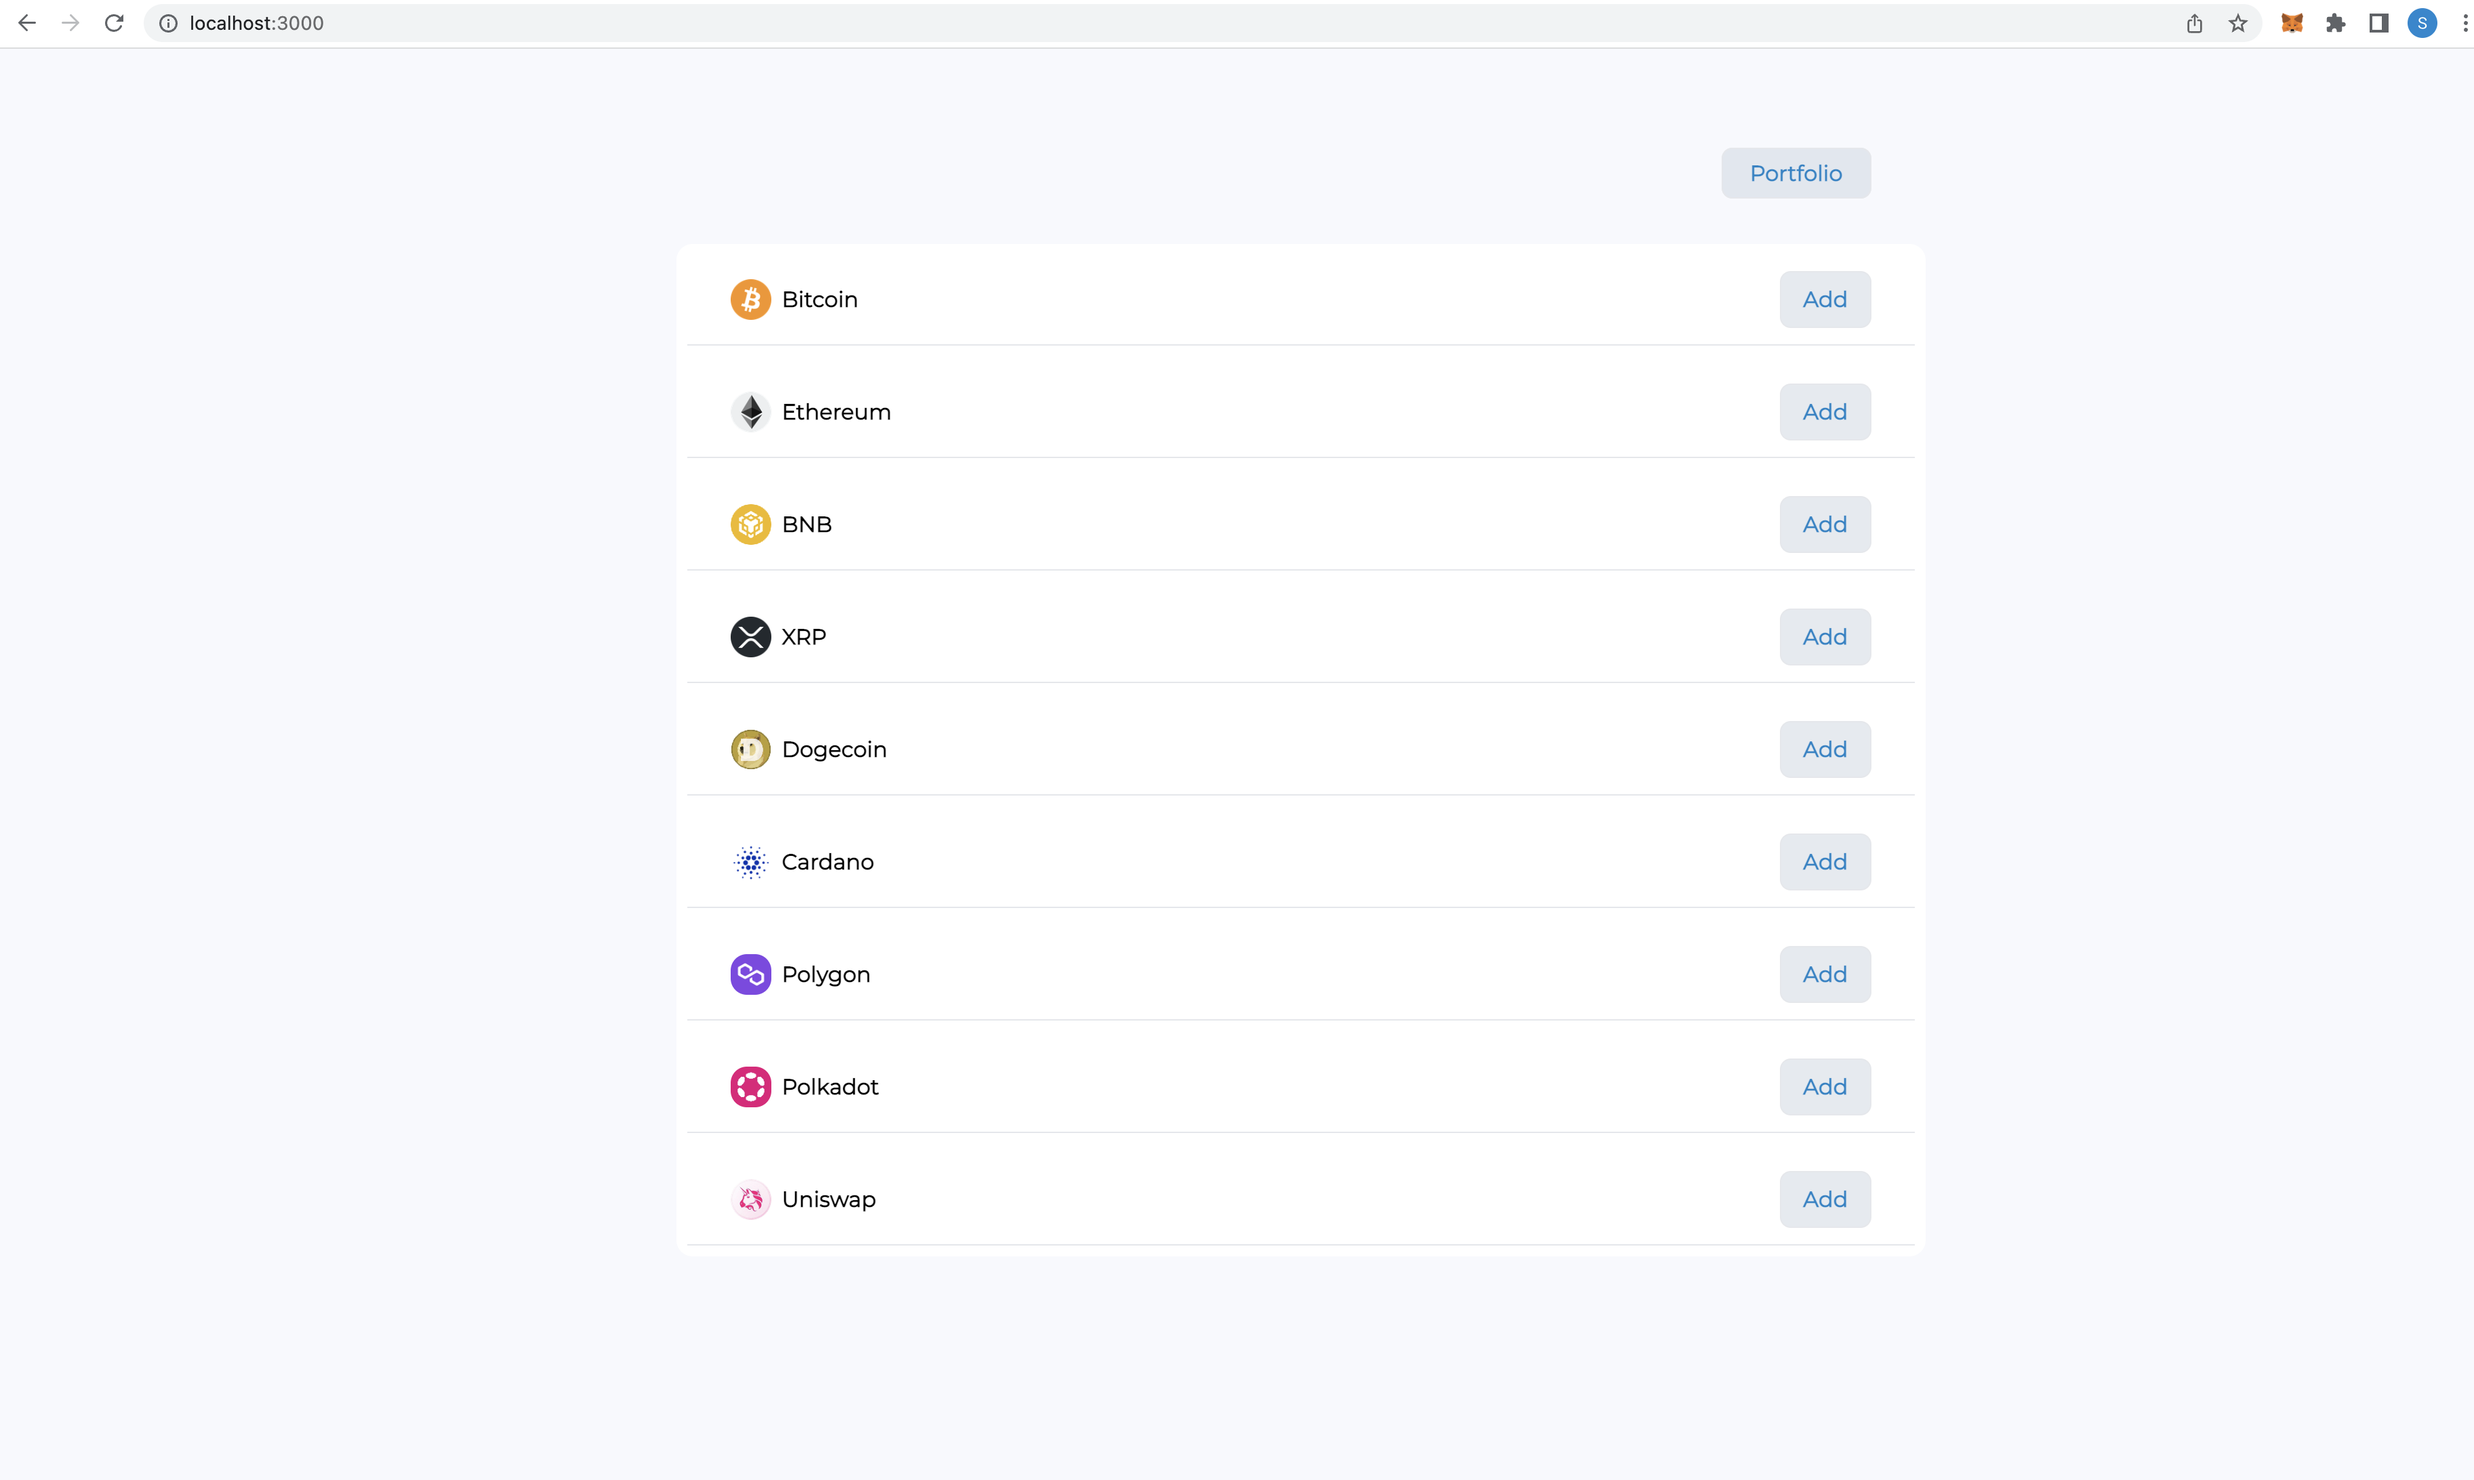
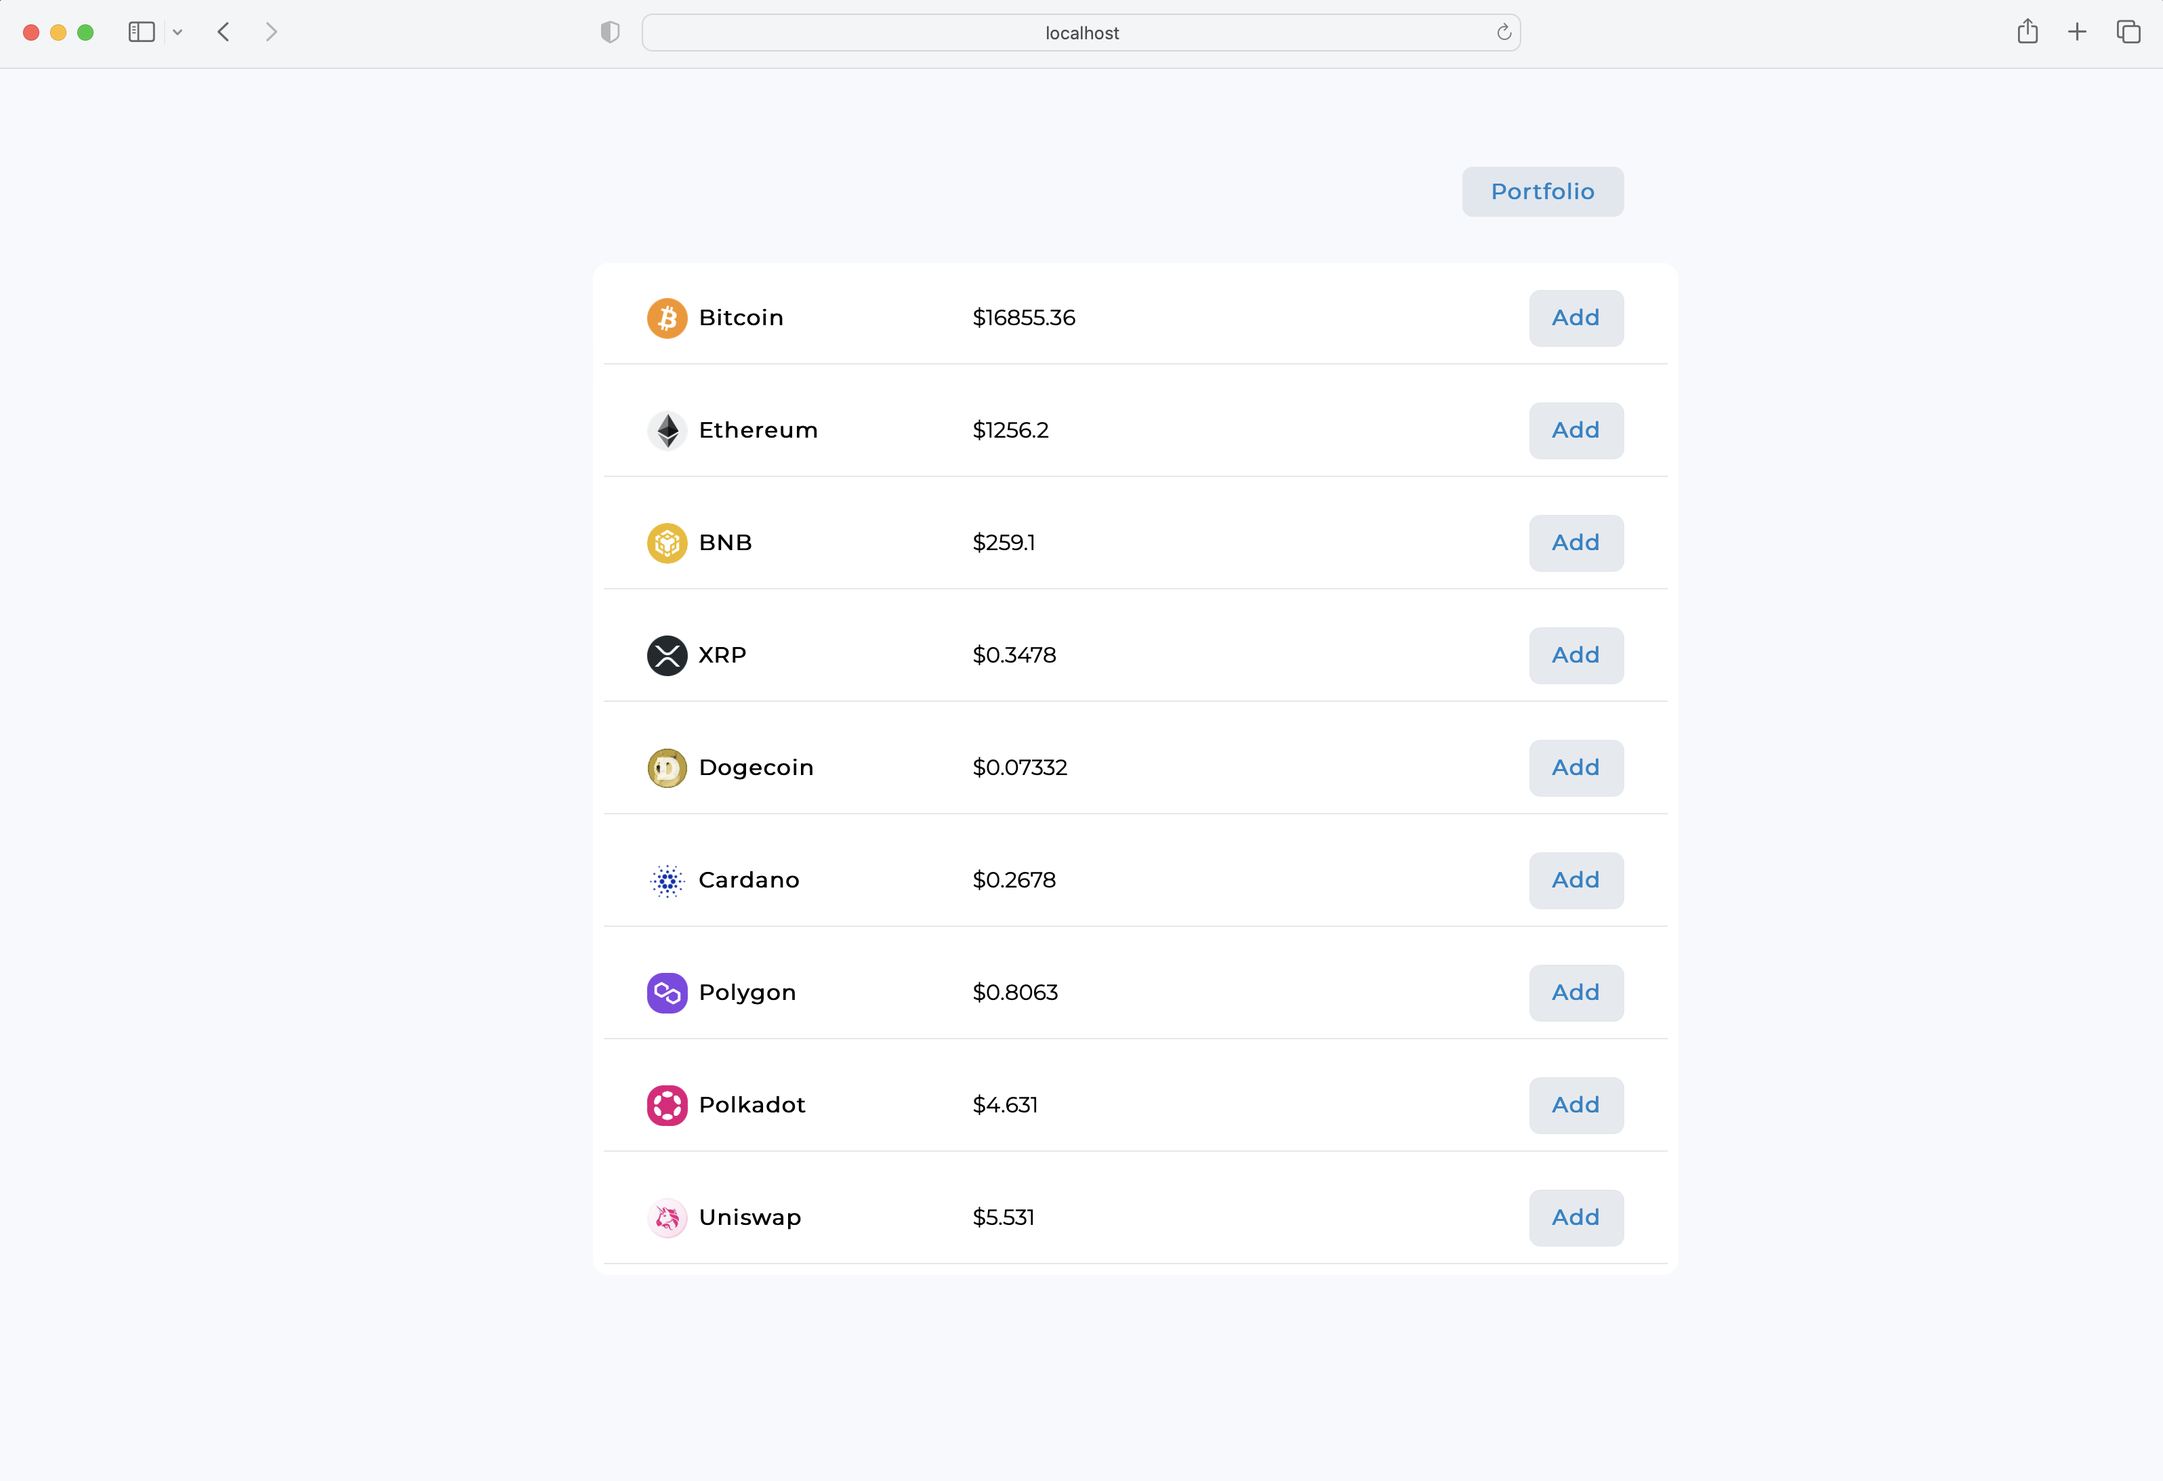
add func: calcualate the price of all portfolio

diff --git a/interface/src/components/Dashboard.jsx b/interface/src/components/Dashboard.jsx
@@ -6,7 +6,7 @@ export default function Dashboard() {
     const userID = 1
     const [portfolio, setPortfolio] = useState([]) 
     const [candlesticks, setCandlesticks] = useState([])
-    const [symbol, setSymbol] = useState("btcusdt")
+    // const [symbol, setSymbol] = useState("btcusdt")
 
 
     const fetchPortfolio = async () => {
@@ -19,9 +19,19 @@ export default function Dashboard() {
         }
     }
 
-    const fetchCandlesticks = async () => {
+    // const fetchCandlesticks = async () => {
+    //     try {
+    //         const resp = await fetch(`http://localhost:8000/klines/${symbol}/`)
+    //         const res = await resp.json()
+    //         setCandlesticks(res)
+    //     } catch(e) {
+    //         console.log(e)
+    //     }
+    // }
+
+    const fetchPortfolioPrices = async () => {
         try {
-            const resp = await fetch(`http://localhost:8000/klines/${symbol}/`)
+            const resp = await fetch(`http://localhost:8000/users/${userID}/portfolio/test/`)
             const res = await resp.json()
             setCandlesticks(res)
         } catch(e) {
@@ -43,7 +53,6 @@ export default function Dashboard() {
         }
 
         let amount = parseFloat(value)
-        console.log(value, amount)
         if (isNaN(amount)) {
             return
         }
@@ -91,8 +100,9 @@ export default function Dashboard() {
     }, [])
 
     useEffect(() => {
-        fetchCandlesticks()
-    }, [symbol])
+        // fetchCandlesticks()
+        fetchPortfolioPrices()
+    }, [portfolio])
                
     return (
        <div id="dashboard" className="xl:w-1/2 xl:absolute xl:left-1/4 md:m-10 m-5">
@@ -101,7 +111,7 @@ export default function Dashboard() {
             </div>
 
             <div className="p-5 bg-white rounded-lg">
-                <Chart candlesticks={candlesticks} title={symbol.toUpperCase()}/>
+                <Chart candlesticks={candlesticks} title="Portfolio"/>
             </div>
 
 
@@ -110,18 +120,22 @@ export default function Dashboard() {
                 <div className="bg-white rounded-lg">
                     {portfolio.length != 0 && portfolio.map(asset => {
                         return (
-                            <div className={"flex justify-between items-center " + (symbol === asset.currency.symbol ? "bg-slate-200/50" : "")} onClick={() => setSymbol(asset.currency.symbol)}>
+                            // onClick={() => setSymbol(asset.currency.symbol)}
+                            // + (symbol === asset.currency.symbol ? "bg-slate-200/50" : "")
+                            <div className={"grid grid-cols-3 flex items-center "} >
                                 <div className="mx-5 p-5 flex items-center">
                                     <img src={asset.currency.image_url} alt="logo" width="40" className="rounded-xl"/>
                                     <div className="mx-5 font-bold">{asset.currency.name}</div>
                                 </div>
                                 <input type="text" className="rounded-lg p-2 bg-transparent outline-0" value={asset.amount} onChange={({target}) => handleChangeAmount(asset.id, target.value)}/>
-                                <button 
-                                    className="mx-4 px-5 p-2 bg-red-500/50 rounded-xl font-bold hover:bg-red-500"
-                                    onClick={() => handleDelete(asset.id)}
-                                    >
-                                        Delete
-                                </button>
+                                <div className="flex justify-end">
+                                    <button 
+                                        className="mx-4 px-5 p-2 bg-red-500/50 rounded-xl font-bold hover:bg-red-500"
+                                        onClick={() => handleDelete(asset.id)}
+                                        >
+                                            Delete
+                                    </button>
+                                </div>
                             </div>
                         )
                     })}

diff --git a/interface/src/components/CryptoCurrencies.jsx b/interface/src/components/CryptoCurrencies.jsx
@@ -46,15 +46,21 @@ export default function CryptoCurrencies() {
                 {currencies.map(currency => {
                     return (
                         <div className="p-2">
-                            <div className="mx-5 p-3 flex justify-between">
+                            <div className="mx-5 p-3 grid grid-cols-3 flex items-center">
+
                                 <div className="flex items-center">
                                     <img src={currency.image_url} alt="logo" width="30" className="rounded-xl"/>
                                     <div className="mx-2 font-bold">{currency.name}</div>
                                 </div>
-                                <button 
-                                    className="px-4 py-2 bg-slate-300/50 rounded-lg text-sky-600 font-semibold border hover:bg-sky-200/50 hover:border-sky-300"
-                                    onClick={() => handleAddAsset(currency.id)}
-                                    >Add</button>
+                                <div className="">${currency.price}</div>
+
+                                <div className="flex justify-end">
+                                    <button 
+                                        className="px-4 py-2 bg-slate-300/50 rounded-lg text-sky-600 font-semibold border hover:bg-sky-200/50 hover:border-sky-300"
+                                        onClick={() => handleAddAsset(currency.id)}
+                                        >Add
+                                    </button>
+                                </div>
                             </div>
                             <hr />
                         </div>

diff --git a/interface/public/index.html b/interface/public/index.html
@@ -2,7 +2,7 @@
 <html lang="en">
   <head>
     <meta charset="utf-8" />
-    <link rel="icon" href=./favicon.ico" />
+    <link rel="icon" href="./favicon.ico" />
     <meta name="viewport" content="width=device-width, initial-scale=1" />
     <link rel="apple-touch-icon" href="./logo192.png" />
     <link rel="manifest" href="./manifest.json" />

diff --git a/crypto_tracker/crud.py b/crypto_tracker/crud.py
@@ -1,10 +1,17 @@
 from sqlalchemy.orm import Session
+from sqlalchemy.sql import func
 
 from . import models, schemas
 
 
 def get_curencies(db: Session, skip: int = 0, limit: int = 100):
-    return db.query(models.Currency).offset(skip).limit(limit).all()
+    currencies = db.query(models.Currency).offset(skip).limit(limit).all()
+    # get price for each currency
+    for ind in range(len(currencies)):
+        candlestick = db.query(models.Candlestick).filter(models.Candlestick.symbol == currencies[ind].symbol).order_by(models.Candlestick.date.desc()).limit(1).first()
+        currencies[ind].price = candlestick.close
+
+    return currencies
 
 
 def get_candlesticks(db: Session, symbol: str):
@@ -33,6 +40,7 @@ def get_portfolio_by_user_id(db: Session, user_id: int):
 
 
 def create_portfolio_asset(db: Session, asset: schemas.PortfolioCreate, user_id: int):
+    asset.title = asset.title.lower()
     # get portfolio that has the same title and currency
     db_asset = db.query(models.Portfolio).filter(
         models.Portfolio.user_id == user_id, 
@@ -66,5 +74,23 @@ def delete_portfolio_asset(db: Session, portfolio_id: int):
     status = db.query(models.Portfolio).filter(models.Portfolio.id == portfolio_id).delete()
     db.commit()
     return status
+
+
+def get_portfolio_prices(db: Session, user_id: int, title: str):
+    title = title.lower()
+    assets = db.query(models.Portfolio).filter(models.Portfolio.user_id == user_id, models.Portfolio.title == title).all()
+
+    prices = {}
+    for asset in assets:
+        candlesticks = db.query(models.Candlestick).filter(models.Candlestick.symbol == asset.currency.symbol).all()
+        for candle in candlesticks:
+            if candle.date not in prices:
+                prices[candle.date] = 0
+
+            prices[candle.date] += asset.amount*candle.close
+
+    return [{"date": k, "close": v} for k, v in prices.items()]
+
+
 
     

diff --git a/crypto_tracker/main.py b/crypto_tracker/main.py
@@ -36,7 +36,7 @@ def create_user(user: schemas.UserCreate, db: Session = Depends(get_db)):
 
 
 @app.get("/users/{user_id}/portfolio/", response_model=list[schemas.Portfolio])
-def read_portfolio(user_id: int, db: Session = Depends(get_db)):
+def get_portfolio(user_id: int, db: Session = Depends(get_db)):
     return crud.get_portfolio_by_user_id(db, user_id)
 
 
@@ -59,11 +59,17 @@ def delete_portfolio_asset(user_id: int, portfolio_id: int, db: Session = Depend
     return crud.delete_portfolio_asset(db, portfolio_id)
 
 
+# response model include date and close price
+@app.get("/users/{user_id}/portfolio/{portfolio_title}/")
+def get_portfolio_prices(user_id: int, portfolio_title: str, db: Session = Depends(get_db)):
+    return crud.get_portfolio_prices(db, user_id, portfolio_title)
+
+
 @app.get("/currencies/", response_model=list[schemas.Currency])
 def get_currencies(db: Session = Depends(get_db)):
     return crud.get_curencies(db)
+  
 
-
-@app.get("/klines/{symbol}/", response_model=list[schemas.Candlestck])
+@app.get("/klines/{symbol}/", response_model=list[schemas.Candlestick])
 def get_candlesticks(symbol: str , db: Session = Depends(get_db)):
     return crud.get_candlesticks(db, symbol)

diff --git a/crypto_tracker/schemas.py b/crypto_tracker/schemas.py
@@ -2,7 +2,7 @@ from datetime import date
 from pydantic import BaseModel
 
 
-class Candlestck(BaseModel):
+class Candlestick(BaseModel):
     date: date
     symbol: str
     open: float
@@ -27,6 +27,7 @@ class CurrencyCreate(CurrencyBase):
 
 class Currency(CurrencyBase):
     id: int
+    price: float | None = None
 
     class Config:
         orm_mode = True
